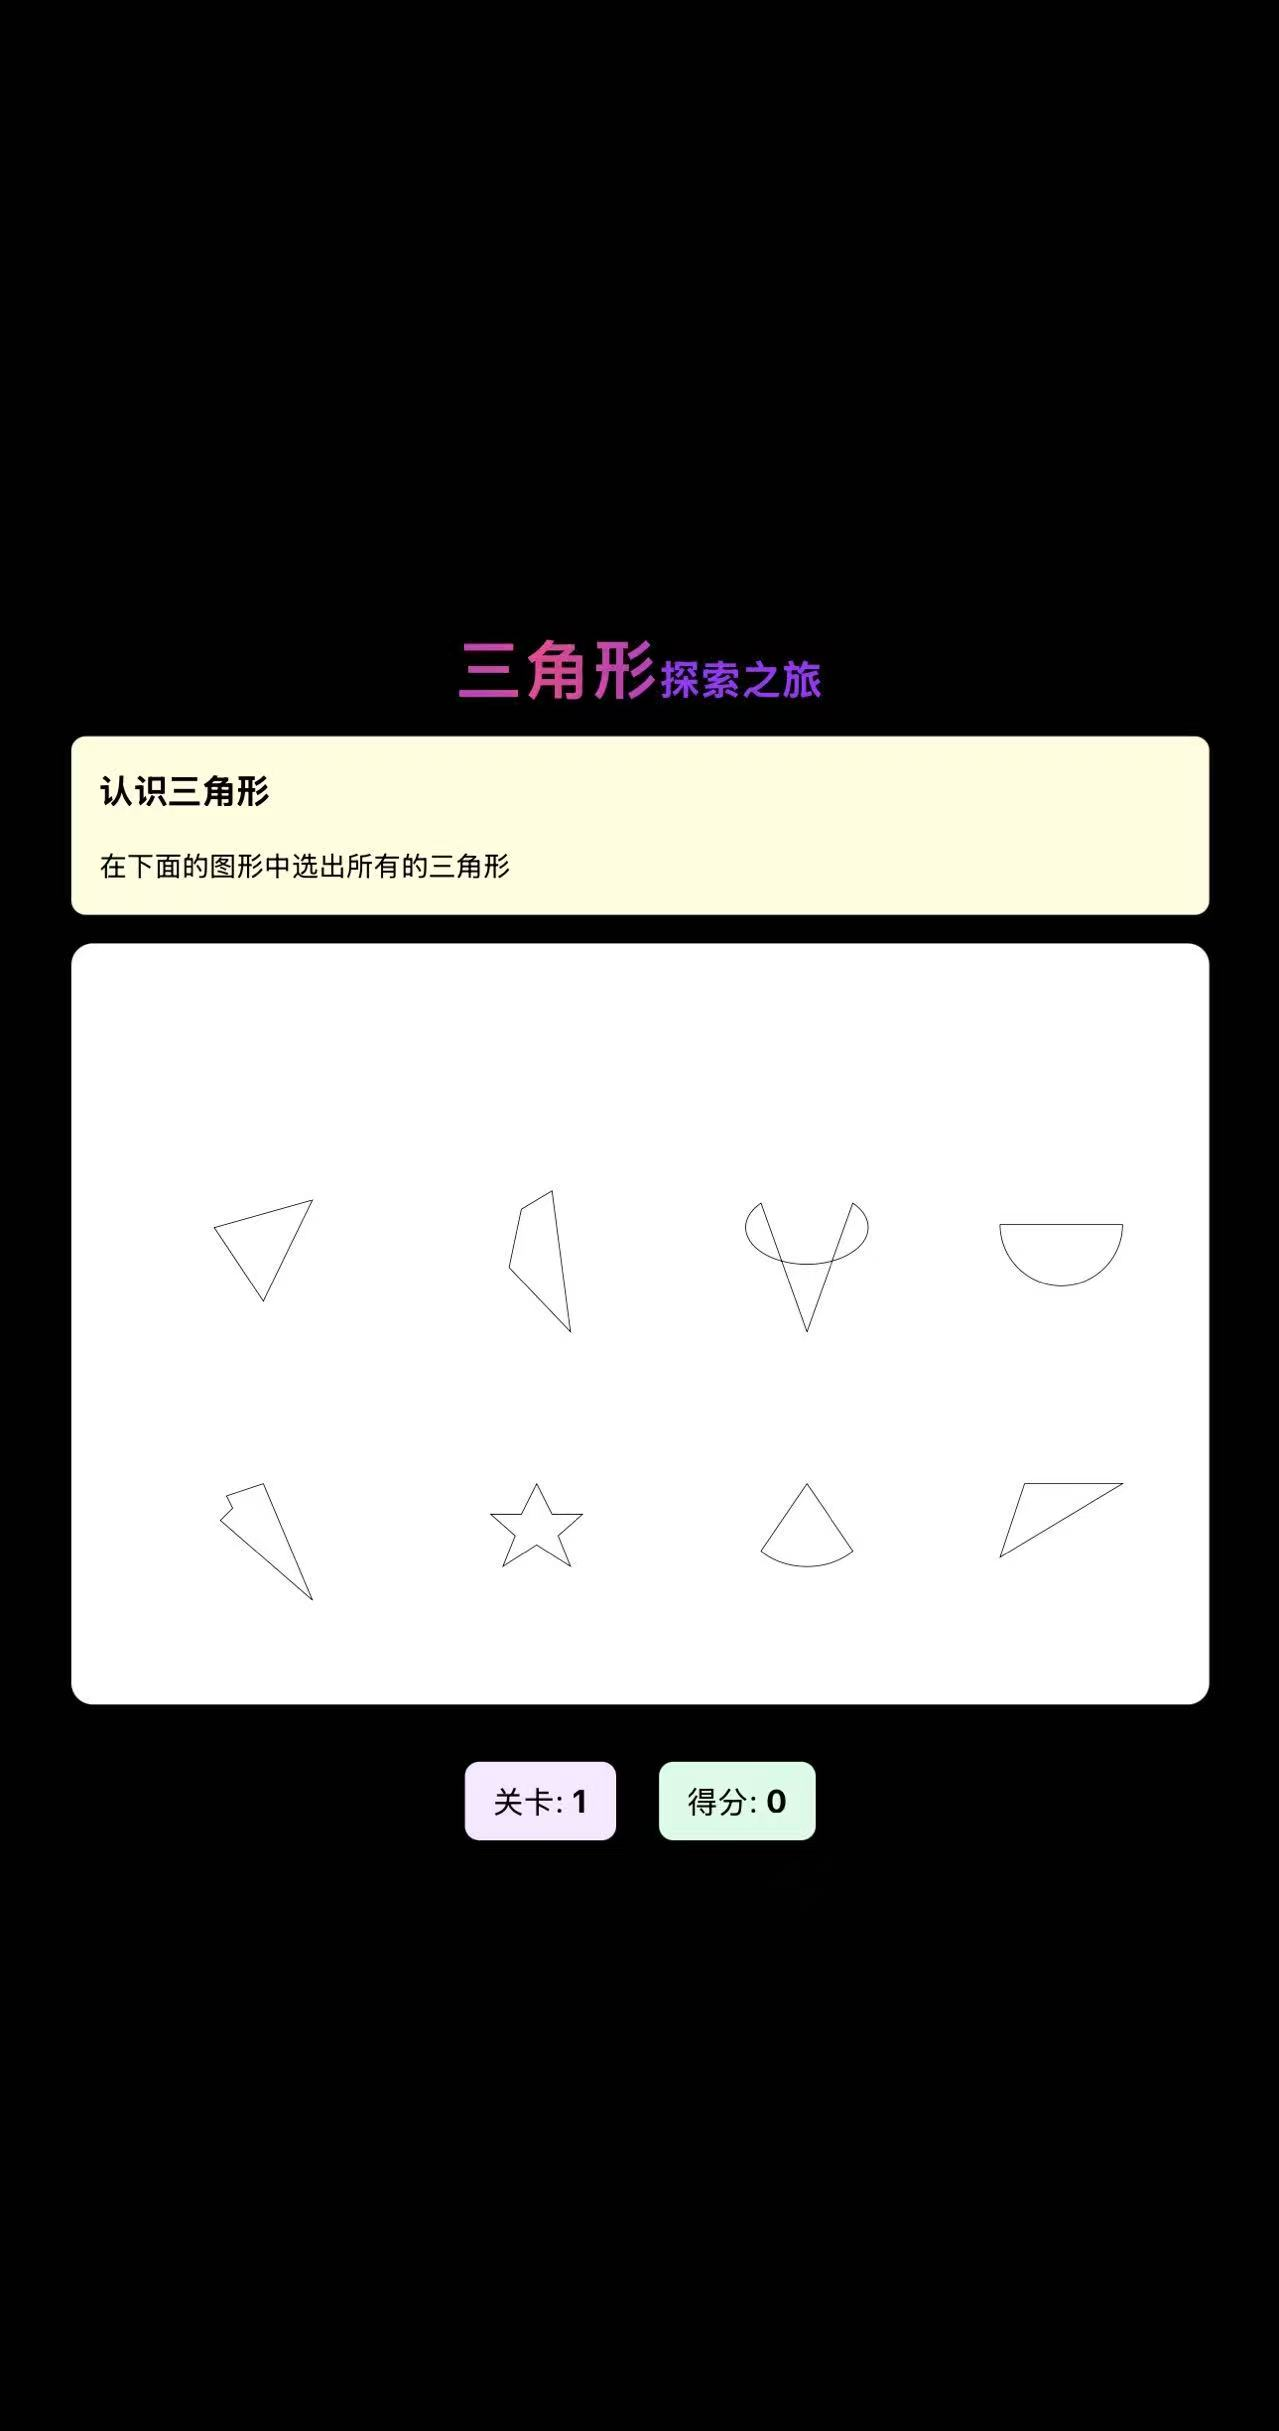
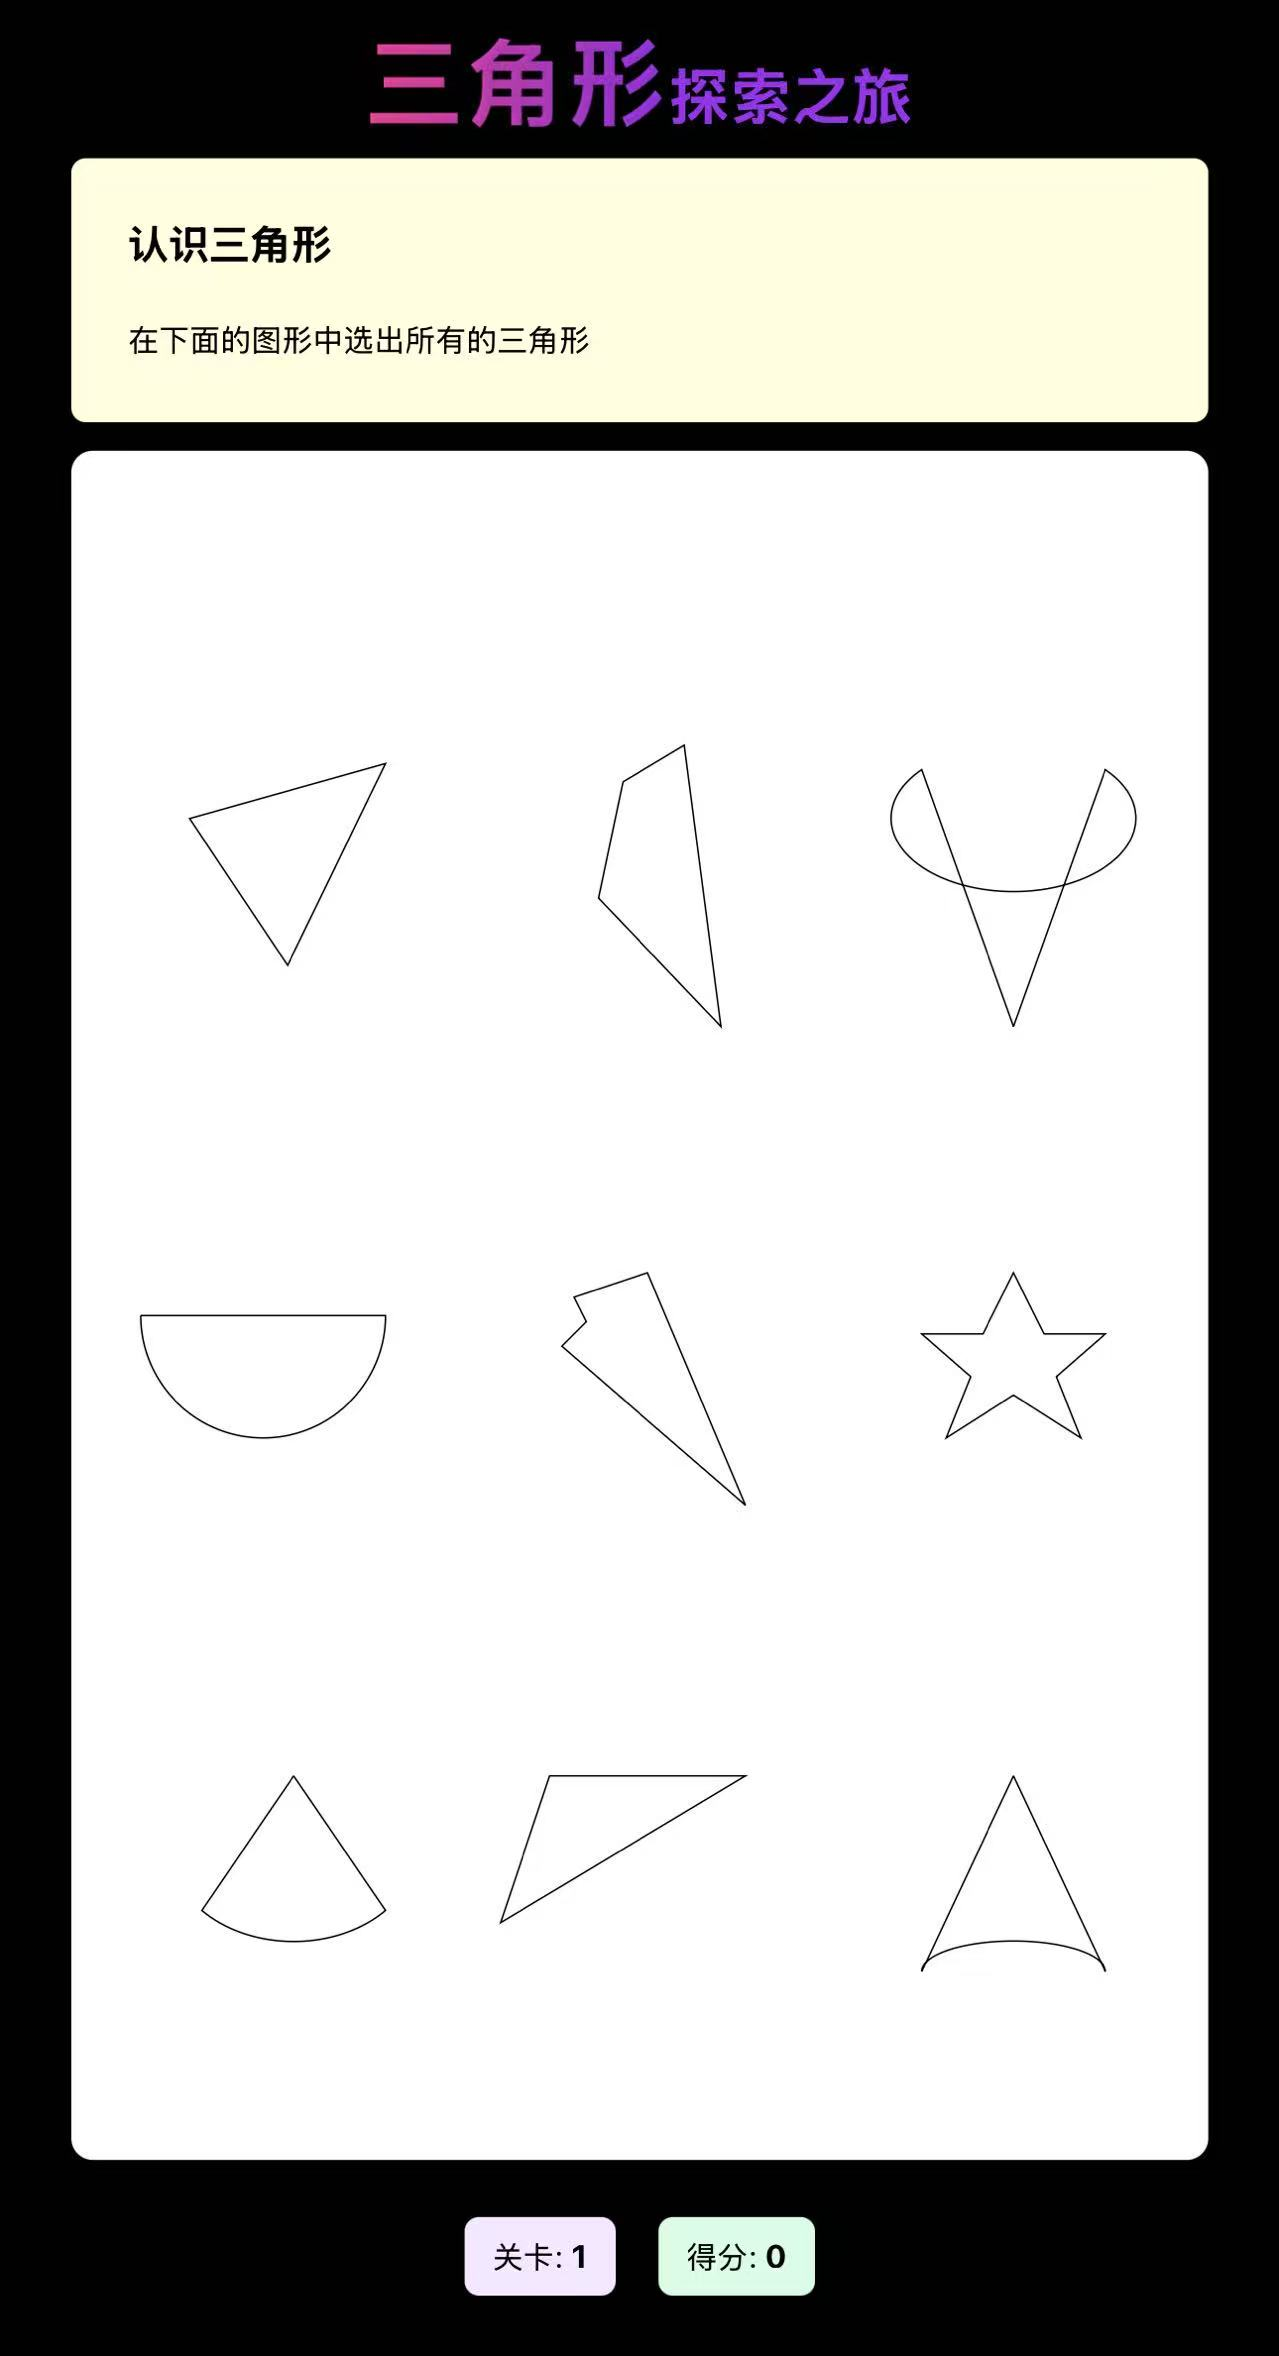
a

diff --git a/pages/index/index.vue b/pages/index/index.vue
@@ -42,7 +42,7 @@
 						showInfo: false
 					},
 					{
-						url: 'https://msanjiaoxingderenshi.netlify.app',
+						url: 'https://minisanjiaoxingderenshi.netlify.app',
 						image: '/static/images/三角形的认识.jpg',
 						title: '三角形的认识',
 						info: '探索三角形的特性和分类',
@@ -50,7 +50,7 @@
 						showInfo: false
 					},
 					{
-						url: 'https://mdianxiansiwei.netlify.app',
+						url: 'https://minidianxiansiwei.netlify.app',
 						image: '/static/images/点线思维.jpg',
 						title: '点线思维',
 						info: '学习点和线的基本概念',
@@ -58,7 +58,7 @@
 						showInfo: false
 					},
 					{
-						url: 'https://msibianxingderenshi.netlify.app',
+						url: 'https://minisibianxingderenshi.netlify.app',
 						image: '/static/images/四边形的认识.jpg',
 						title: '四边形的认识',
 						info: '了解各种四边形的特征',
@@ -66,7 +66,7 @@
 						showInfo: false
 					},
 					{
-						url: 'https://mxianjiaomiansiwei.netlify.app',
+						url: 'https://minixianjiaomiansiwei.netlify.app',
 						image: '/static/images/线角面思维.jpg',
 						title: '线角面思维',
 						info: '深入理解几何中的线、角、面概念',
@@ -154,13 +154,13 @@
 
 	.status-bar-bg {
 		position: fixed;
-		top: -92rpx;
+		top: 0rpx;
 		left: 0;
 		width: 100%;
-		height: 400rpx;
+		height: 210rpx;
 		z-index: 99;
-		transform: scale(1, 0.55);
-		transform-origin: center;
+		/* transform: scale(1, 0.55); */
+		/* transform-origin: center; */
 	}
 
 	.header {

diff --git a/unpackage/dist/dev/mp-weixin/pages/index/index.js b/unpackage/dist/dev/mp-weixin/pages/index/index.js
@@ -15,7 +15,7 @@ const _sfc_main = {
           showInfo: false
         },
         {
-          url: "https://msanjiaoxingderenshi.netlify.app",
+          url: "https://minisanjiaoxingderenshi.netlify.app",
           image: "/static/images/三角形的认识.jpg",
           title: "三角形的认识",
           info: "探索三角形的特性和分类",
@@ -23,7 +23,7 @@ const _sfc_main = {
           showInfo: false
         },
         {
-          url: "https://mdianxiansiwei.netlify.app",
+          url: "https://minidianxiansiwei.netlify.app",
           image: "/static/images/点线思维.jpg",
           title: "点线思维",
           info: "学习点和线的基本概念",
@@ -31,7 +31,7 @@ const _sfc_main = {
           showInfo: false
         },
         {
-          url: "https://msibianxingderenshi.netlify.app",
+          url: "https://minisibianxingderenshi.netlify.app",
           image: "/static/images/四边形的认识.jpg",
           title: "四边形的认识",
           info: "了解各种四边形的特征",
@@ -39,7 +39,7 @@ const _sfc_main = {
           showInfo: false
         },
         {
-          url: "https://mxianjiaomiansiwei.netlify.app",
+          url: "https://minixianjiaomiansiwei.netlify.app",
           image: "/static/images/线角面思维.jpg",
           title: "线角面思维",
           info: "深入理解几何中的线、角、面概念",

diff --git a/pages/sibianxingderenshi/sibianxingderenshi.vue b/pages/sibianxingderenshi/sibianxingderenshi.vue
@@ -62,18 +62,23 @@
   
   <style scoped>
   .game-guide {
+    width: 100%;
     min-height: 100vh;
     background: #000000;
+    position: relative;
+    overflow-y: auto;
   }
   
   .top-space {
     height: calc(100vh / 7);
+    min-height: 60px;
   }
   
   .content {
-    padding: 20px;
+    padding: 15px;
     max-width: 800px;
     margin: 0 auto;
+    padding-bottom: 2rem;
   }
   
   .title {

diff --git a/pages/jiaoderenshi/jiaoderenshi.vue b/pages/jiaoderenshi/jiaoderenshi.vue
@@ -107,16 +107,20 @@
     min-height: 100vh;
     background: #000000;
     padding: 0 1rem;
+    position: relative;
+    overflow-y: auto;
   }
   
   .top-space {
     height: calc(100vh / 7);
+    min-height: 60px;
   }
   
   .content-wrapper {
     max-width: 800px;
     margin: 0 auto;
     padding: 1rem;
+    padding-bottom: 2rem;
   }
   
   .title {

diff --git a/pages/dianxiansiwei/dianxiansiwei.vue b/pages/dianxiansiwei/dianxiansiwei.vue
@@ -84,16 +84,20 @@
     width: 100%;
     min-height: 100vh;
     background: #000000;
+    position: relative;
+    overflow-y: auto;
   }
   
   .top-space {
     height: calc(100vh / 7);
+    min-height: 60px;
   }
   
   .content-container {
     padding: 20px;
     max-width: 1200px;
     margin: 0 auto;
+    padding-bottom: 2rem;
   }
   
   .title {

diff --git a/pages/sanjiaoxingderenshi/sanjiaoxingderenshi.vue b/pages/sanjiaoxingderenshi/sanjiaoxingderenshi.vue
@@ -61,16 +61,20 @@
     width: 100%;
     min-height: 100vh;
     background: #000000;
+    position: relative;
+    overflow-y: auto;
   }
   
   .top-space {
     height: calc(100vh / 7);
+    min-height: 60px;
   }
   
   .content-container {
     padding: 20px;
     max-width: 800px;
     margin: 0 auto;
+    padding-bottom: 2rem;
   }
   
   .title {

diff --git a/pages/xianjiaomiansiwei/xianjiaomiansiwei.vue b/pages/xianjiaomiansiwei/xianjiaomiansiwei.vue
@@ -113,17 +113,21 @@
 	width: 100%;
 	min-height: 100vh;
 	background: #000000;
+	position: relative;
+	overflow-y: auto;
 	padding-bottom: 2rem;
   }
   
   .top-space {
 	height: calc(100vh / 7);
+	min-height: 60px;
   }
   
   .content {
 	padding: 0 1rem;
 	max-width: 800px;
 	margin: 0 auto;
+	padding-bottom: 2rem;
   }
   
   .title {

diff --git a/unpackage/dist/dev/mp-weixin/common/vendor.js b/unpackage/dist/dev/mp-weixin/common/vendor.js
@@ -6777,7 +6777,7 @@ function initOnError() {
   };
 }
 function initRuntimeSocketService() {
-  const hosts = "127.0.0.1,192.168.110.189,10.10.10.6";
+  const hosts = "127.0.0.1,192.168.110.211,10.10.10.6";
   const port = "8090";
   const id = "mp-weixin_Zvv3Hy";
   const lazy = typeof swan !== "undefined";
